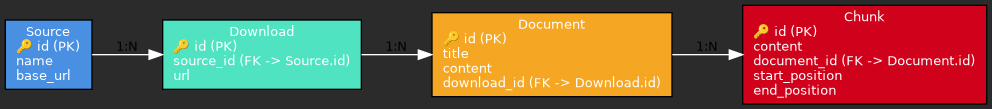
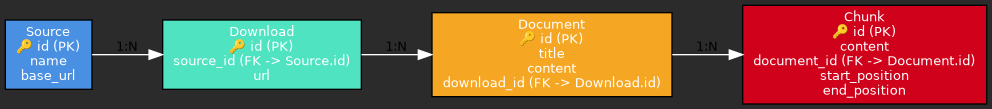
removed error

diff --git a/ike/dbase_diagram.py b/ike/dbase_diagram.py
@@ -6,7 +6,7 @@ graph = pgv.AGraph(strict=False, directed=True, bgcolor='#2B2B2B')
 # Define table attributes for each node
 def add_table_node(graph, table_name, fields, fillcolor, header_color):
     updated_fields = [f"🔑 {field}" if "(PK)" in field else field for field in fields]
-    label = f"{table_name}\n" + "\l".join([f"{field}" for field in updated_fields]) + "\l"
+    label = f"{table_name}\n" + "\n".join([f"{field}" for field in updated_fields])
     graph.add_node(
         table_name,
         shape='box',
